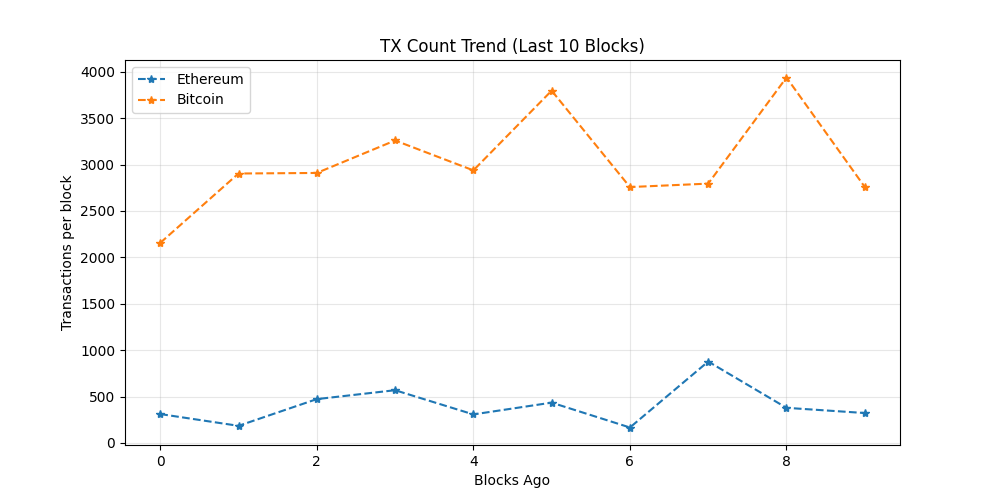
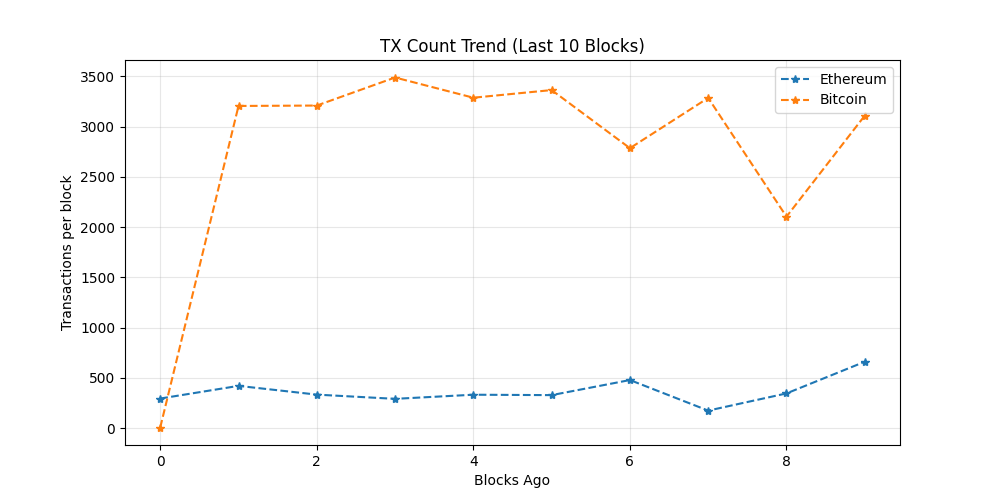
chore: update on-chain dashboard

diff --git a/README.md b/README.md
@@ -19,7 +19,7 @@ The README itself acts as the dashboard and is regenerated automatically on a 6 
 demonstrating a production-style, infrastructure-focused observability workflow rather
 than a traditional UI-driven approach.
 
-_Last updated: 2026-01-12 18:49 UTC_
+_Last updated: 2026-01-13 02:25 UTC_
 
 ## API Usage (GetBlock.io)
 - Calls used: **24**
@@ -27,8 +27,8 @@ _Last updated: 2026-01-12 18:49 UTC_
 ## Network Metrics
 | Chain | Block Height | TX Count | TPS (10 blk avg) | Block Util | Avg Fee |
 |------|-------------|----------|------------------|------------|---------|
-| Ethereum | 24220526 | 322 | 26.83 | 46.98% | 0.1 Gwei |
-| Bitcoin | 932014 | 2759 | 4.3 | 99.79% | N/A |
+| Ethereum | 24222799 | 661 | 55.08 | 68.06% | 0.0 Gwei |
+| Bitcoin | 932058 | 3109 | 1.4 | 99.8% | N/A |
 
 ## Visuals
 ### Transactions Trend
@@ -43,9 +43,11 @@ _Last updated: 2026-01-12 18:49 UTC_
 ## Whale Alerts (latest block)
 - Transaction hashes are truncated for readability.
 - Full hashes are available in `dashboards/metrics.json`
-- Bitcoin | 147.51 BTC | `c22bbd44070c…`
-- Bitcoin | 246.38 BTC | `55b9fb2930df…`
-- Bitcoin | 494.62 BTC | `65d3d1d4ca4c…`
+- Bitcoin | 116.32 BTC | `96b6c3f2deb2…`
+- Bitcoin | 448.72 BTC | `b7360bd7fc02…`
+- Bitcoin | 348.09 BTC | `0b1202fa23ef…`
+- Bitcoin | 447.16 BTC | `0b6f2a0f9b64…`
+- Bitcoin | 224.01 BTC | `16b92653e8ae…`
 
 ## Run locally
 
